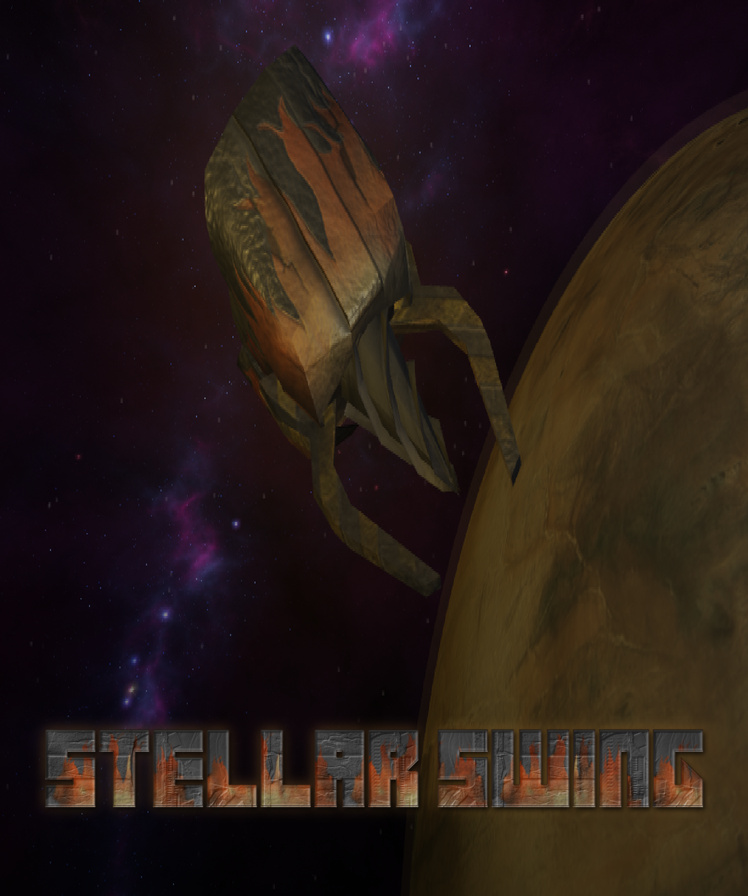
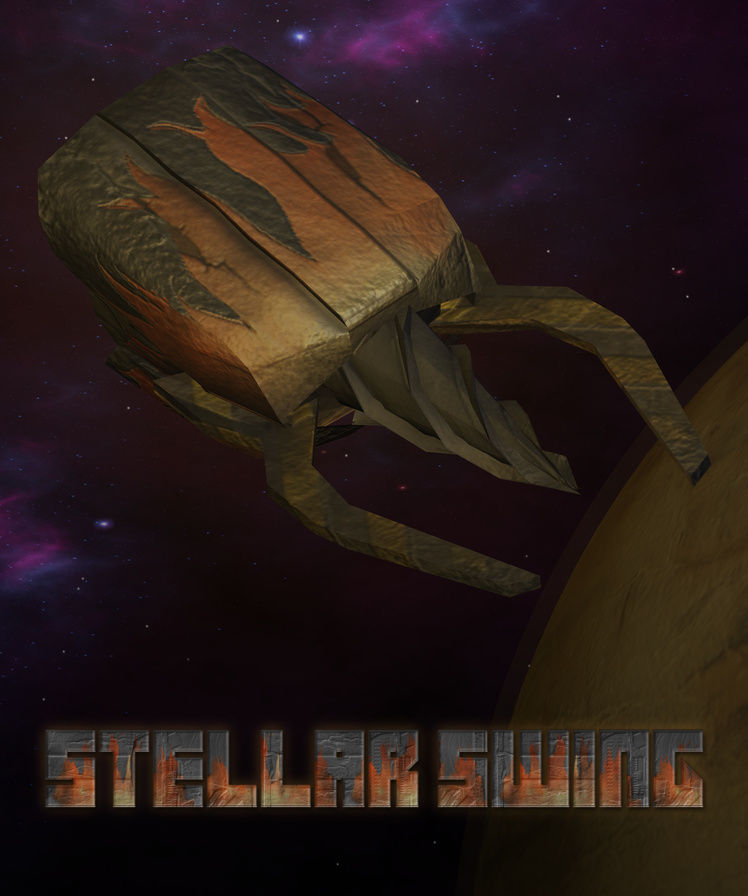
Steam art: fix the stretched drone
The game-view captures were scaled to each asset's shape. The title camera is
now rendered directly at the right aspect, and the tall assets are cropped
from a 16:9 master.

diff --git a/tools/steam/store/art/compose.py b/tools/steam/store/art/compose.py
@@ -1,5 +1,6 @@
-# Builds the Steam store and library images from title-screen captures in src/
-# (title scene with the UI hidden, rendered at each asset's shape) and the title logo.
+# Builds the Steam store and library images from renders of the title scene in src/
+# (UI hidden, rendered straight from the camera at each wide asset's exact shape, plus a
+# 16:9 master the tall assets are cropped from) and the title logo.
 # Needs ImageMagick 7. Run: python3 tools/steam/store/art/compose.py
 import subprocess, os
 HERE = os.path.dirname(os.path.abspath(__file__))
@@ -9,10 +10,12 @@ def m(*a): subprocess.run(['magick', *a], check=True)
 
 LOGO = S + 'logo.png'
 
-def capsule(src, w, h, name, logo_w, logo_y, shade=0.55, fmt='jpg'):
-    """Background scaled to w x h, darkened toward the bottom, logo centred at logo_y (0-1 from top)."""
+def capsule(src, w, h, name, logo_w, logo_y, shade=0.55, fmt='jpg', crop=None):
+    """Background (optionally cropped to x,y,w,h first) scaled to w x h, darkened toward the
+    bottom, logo centred at logo_y (0-1 from top)."""
     tmp = O + '_tmp.png'
-    m(S + src, '-resize', f'{w}x{h}^', '-gravity', 'center', '-extent', f'{w}x{h}',
+    pre = ['-crop', '%dx%d+%d+%d' % (crop[2], crop[3], crop[0], crop[1]), '+repage'] if crop else []
+    m(S + src, *pre, '-resize', f'{w}x{h}^', '-gravity', 'center', '-extent', f'{w}x{h}',
       # darken a band behind the logo so it reads against the planet
       '(', '-size', f'{w}x{h}', f'gradient:none-#000000{int(shade*255):02x}', ')', '-composite', tmp)
     m(tmp, '(', LOGO, '-trim', '+repage', '-resize', f'{logo_w}x', ')', '-gravity', 'north',
@@ -20,15 +23,16 @@ def capsule(src, w, h, name, logo_w, logo_y, shade=0.55, fmt='jpg'):
     os.remove(tmp)
 
 # store
-capsule('sa_1840x860.png',   920,  430, 'header_capsule_920x430',   800, 0.64)
-capsule('sa_924x348.png',    462,  174, 'small_capsule_462x174',    440, 0.38, shade=0.65)
-capsule('sa_2464x1412.png', 1232,  706, 'main_capsule_1232x706',   1040, 0.70)
-capsule('sa_1496x1792.png',  748,  896, 'vertical_capsule_748x896', 690, 0.80)
+capsule('wide_1840x860.png',   920,  430, 'header_capsule_920x430',   800, 0.64)
+capsule('small_924x348.png',    462,  174, 'small_capsule_462x174',    440, 0.38, shade=0.65)
+capsule('main_2464x1412.png',  1232,  706, 'main_capsule_1232x706',   1040, 0.70)
+# tall ones: crop the master around the drone (it spans about x 1660-4300 of 6144)
+capsule('master_6144x3456.png', 748,  896, 'vertical_capsule_748x896', 690, 0.80, crop=(1537, 0, 2886, 3456))
 # library
-capsule('sa_1200x1800.png',  600,  900, 'library_capsule_600x900',  560, 0.82)
-capsule('sa_1840x860.png',   920,  430, 'library_header_920x430',   800, 0.64)
-m(S + 'sa_3840x1240.png', '-quality', '95', O + 'library_hero_3840x1240.jpg')
+capsule('master_6144x3456.png', 600,  900, 'library_capsule_600x900',  560, 0.82, crop=(1748, 0, 2304, 3456))
+capsule('wide_1840x860.png',   920,  430, 'library_header_920x430',   800, 0.64)
+m(S + 'hero_3840x1240.png', '-quality', '95', O + 'library_hero_3840x1240.jpg')
 m(LOGO, '-trim', '+repage', '-resize', '1280x', O + 'library_logo_1280.png')
 # optional store page background: dim and soft so it doesn't compete with the page
-m(S + 'sa_3840x2160.png', '-resize', '1438x810^', '-gravity', 'center', '-extent', '1438x810',
+m(S + 'master_6144x3456.png', '-resize', '1438x810^', '-gravity', 'center', '-extent', '1438x810',
   '-blur', '0x6', '-modulate', '55,80', '-quality', '92', O + 'page_background_1438x810.jpg')

diff --git a/tools/steam/store/art/README.md b/tools/steam/store/art/README.md
@@ -16,6 +16,7 @@ Library Assets (library).
 | `library_hero_3840x1240.jpg` | Library Hero (no logo; Steam puts the logo on top) |
 | `library_logo_1280.png` | Library Logo (transparent; "centered bottom" or "left bottom" both work) |
 
-`src/` holds the title scene captured with the UI hidden, one render per asset shape,
-plus the title logo (`Assets/Assets_new/Title/ss_title.png`). To change the layout, edit
+`src/` holds the title scene with the UI hidden, rendered straight from the title camera
+(not the game view, which stretches to the requested size): one render at each wide
+asset's exact shape and a 6144x3456 master the tall ones are cropped from, plus the title logo (`Assets/Assets_new/Title/ss_title.png`). To change the layout, edit
 `compose.py` and run `python3 tools/steam/store/art/compose.py` (needs ImageMagick 7).
